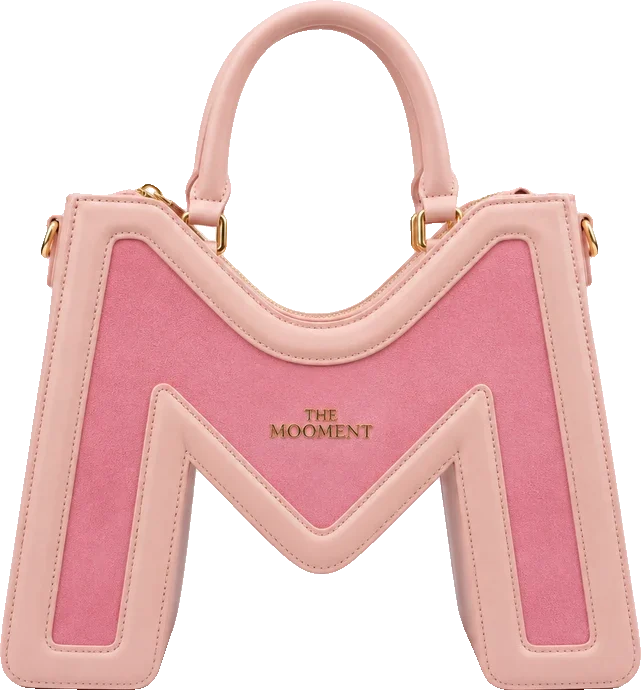
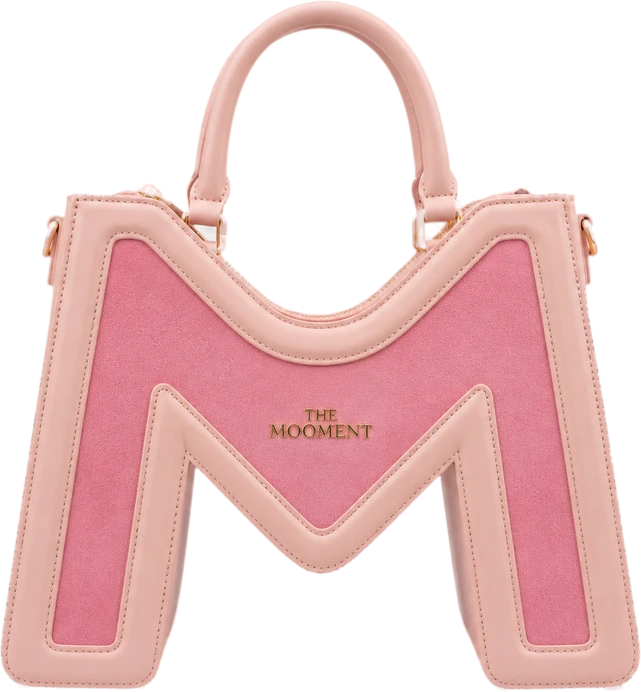
Round 7: matted+defringed cutouts, lit vitrine for the two Dual Essence bags, quick-look

diff --git a/app.js b/app.js
@@ -6,13 +6,13 @@ const stage=$('#stage'),track=$('#track'),hooks=$('#hooks'),RM=matchMedia('(pref
 P.forEach(p=>{const i=new Image();i.decoding='async';i.src=p.cut;i.decode&&i.decode().catch(()=>{})});
 // seeded random so the closet looks the same each visit
 let seed=7;const rnd=()=>(seed=(seed*16807)%2147483647)/2147483647;
-let mode='clothes',items=[],H=[],pos=0,vel=0,target=0,railA=0,prevVel=0,drag=null,S=260,railY=120,shown=-1;
+let mx=0,mode='clothes',items=[],H=[],pos=0,vel=0,target=0,railA=0,prevVel=0,drag=null,S=260,railY=120,shown=-1;
 function build(){items=sets[mode];document.body.classList.toggle('bags',mode=='bags');seed=7;
  track.innerHTML=items.map((p,i)=>mode=='bags'
-  ?`<div class="item bag"><img src="${p.cut}" alt="${p.name}" draggable="false" decoding="async"><div class="ped"></div></div>`
+  ?`<div class="item bag"><div class="niche"><i class="glow"></i><i class="dl"></i></div><div class="shelf"></div><i class="fs"></i><img class="rf" src="${p.cut}" alt="" aria-hidden="true" draggable="false"><img class="bg" src="${p.cut}" alt="${p.name}" draggable="false" decoding="async"><span class="plq">${String(i+1).padStart(2,'0')}</span></div>`
   :`<div class="item"><div class="cloth"><img src="${p.cut}" alt="${p.name}" draggable="false" decoding="async"><div class="dim" style="-webkit-mask-image:url('${p.cut}');mask-image:url('${p.cut}')"></div></div></div>`).join('');
  hooks.innerHTML=mode=='bags'?'':items.map(()=>'<div class="hk"></div>').join('');
- H=[...track.children].map((el,i)=>({el,hk:hooks.children[i],cloth:el.querySelector('.cloth'),dim:el.querySelector('.dim'),
+ H=[...track.children].map((el,i)=>({el,img:el.querySelector('.bg'),rf:el.querySelector('.rf'),dl:el.querySelector('.dl'),fs:el.querySelector('.fs'),ly:0,lv:0,tz:0,tv:0,hk:hooks.children[i],cloth:el.querySelector('.cloth'),dim:el.querySelector('.dim'),
   rest:(rnd()-.5)*0.09,/* ±2.6° */ th:0,om:0,w0:Math.sqrt(26)*(.86+rnd()*.28),c:2.2+rnd()*.9,depth:.93+rnd()*.05,jit:(rnd()-.5)*12,z:-1,vis:null}));
  H.forEach(h=>h.th=h.rest);pos=target=0;vel=0;shown=-1;layout();info()}
 function layout(){const vw=innerWidth,top=stage.getBoundingClientRect().top;
@@ -20,8 +20,10 @@ function layout(){const vw=innerWidth,top=stage.getBoundingClientRect().top;
  railY=Math.round(hb+(vw<900?30:36));stage.style.setProperty('--railY',(railY-top)+'px');
  const desk=vw>=900;S=desk?Math.min(vw*.25,380):vw*.64;
  H.forEach((h,i)=>{const p=items[i],e=h.el;
-  if(mode=='bags'){S=desk?Math.min(vw*.3,420):vw*.8;const w=Math.min(desk?340:vw*.66,(it-railY-120)/p.ar),hh=w*p.ar;
-   Object.assign(e.style,{width:w+'px',height:hh+'px',marginLeft:-w/2+'px',top:(it-top-70-hh)+'px'});h.px=w/2;h.py=hh;e.style.transformOrigin='50% 100%';return}
+  if(mode=='bags'){const nw=desk?Math.min(vw*.3,420):vw*.74,nh=Math.max(300,it-hb-30);S=nw+(desk?36:18);
+   const sy=nh*.8,bw=Math.min(nw*.78,sy*.66/p.ar),bh=bw*p.ar;
+   Object.assign(e.style,{width:nw+'px',height:nh+'px',marginLeft:-nw/2+'px',top:(hb+16-top)+'px',transformOrigin:'50% 50%'});
+   e.style.setProperty('--sy',sy+'px');e.style.setProperty('--bw',bw+'px');e.style.setProperty('--bh',bh+'px');h.px=nw/2;h.py=sy;return}
   const R=desk?6:5,[nx,ny]=p.hook,w0=Math.min(desk?Math.min(vw*.3,440):vw*.8,(it-railY-24)/(p.ar*(1-ny)+.085)),w=w0,hh=w*p.ar,px=nx*w,py=ny*hh,Ls=w*.075;
   const neck=railY+R+Ls,imgTop=neck-py,oy=railY-R-imgTop;// pivot = top of the rod, in item coords
   Object.assign(e.style,{width:w+'px',height:hh+'px',marginLeft:-px+'px',top:(imgTop-top)+'px',transformOrigin:`${px}px ${oy}px`});
@@ -54,13 +56,22 @@ function tick(t){const dt=Math.min(.032,(t-last)/1000)||.016;last=t;const N=item
    if(i>0&&H[i-1].vis)acc+=3.5*(H[i-1].th-h.th);if(i<N-1&&H[i+1].vis)acc+=3.5*(H[i+1].th-h.th);// neighbours nudge
    h.om+=acc*dt;h.th+=h.om*dt;if(h.th>.19){h.th=.19;h.om*=-.3}if(h.th<-.19){h.th=-.19;h.om*=-.3}}
   const f=Math.min(ad,1),s=hang?(1-f*(1-h.depth)):1-f*.1,x=d*S+(hang?h.jit*f:0);
-  h.el.style.transform=hang?`translate3d(${x.toFixed(1)}px,0,0) rotate(${(h.th*57.3).toFixed(2)}deg) scale(${s.toFixed(3)})`
-   :`translate3d(${x.toFixed(1)}px,0,0) scale(${s.toFixed(3)}) rotateY(${Math.max(-18,Math.min(18,-vel*6)).toFixed(1)}deg)`;
-  if(hang){h.hk.style.transform=h.el.style.transform;h.hk.style.opacity=(1-Math.min(ad,1.6)*.3).toFixed(2);h.cloth.style.transform=`skewX(${Math.max(-3,Math.min(3,h.om*1.6)).toFixed(2)}deg)`;h.dim.style.opacity=(Math.min(ad,1.6)*.38).toFixed(2)}
-  else h.el.style.opacity=(1-Math.min(ad,1.4)*.45).toFixed(2);
+  if(!hang){// vitrine: lift while gliding, land with a small bounce + tilt, slow 3D turn when focused
+   const lt=-Math.min(1,Math.abs(vel))*16;h.lv+=(-(h.ly-lt)*95-7.5*h.lv)*dt;h.ly+=h.lv*dt;
+   const tt=Math.max(-7,Math.min(7,-vel*5));h.tv+=(-(h.tz-tt)*80-6.5*h.tv)*dt;h.tz+=h.tv*dt;
+   const ry=(RM?0:Math.sin(t/1000*.55+i)*5)*(1-f)+d*-16+mx*6*(1-f)-vel*4;
+   h.el.style.transform=`translate3d(${x.toFixed(1)}px,0,0) scale(${(1-f*.12).toFixed(3)})`;
+   h.el.style.filter=f>.02?`blur(${(f*3.2).toFixed(1)}px) brightness(${(1-f*.4).toFixed(2)})`:'none';
+   const bt=`translateY(${h.ly.toFixed(1)}px) rotate(${h.tz.toFixed(2)}deg) rotateY(${ry.toFixed(2)}deg)`;
+   if(!h.ql)h.img.style.transform=bt;h.rf.style.transform=`translateY(${(-h.ly).toFixed(1)}px) scaleY(-1) rotate(${(-h.tz).toFixed(2)}deg) rotateY(${ry.toFixed(2)}deg)`;
+   h.dl.style.transform=`translateX(${(-ry*2.2).toFixed(1)}px)`;h.fs.style.transform=`scale(${(1+h.ly/60).toFixed(3)})`;h.fs.style.opacity=(1+h.ly/40).toFixed(2);
+   const z=20-Math.round(ad*4);if(z!==h.z){h.el.style.zIndex=z;h.z=z}continue}
+  h.el.style.transform=`translate3d(${x.toFixed(1)}px,0,0) rotate(${(h.th*57.3).toFixed(2)}deg) scale(${s.toFixed(3)})`;
+  h.hk.style.transform=h.el.style.transform;h.hk.style.opacity=(1-Math.min(ad,1.6)*.3).toFixed(2);h.cloth.style.transform=`skewX(${Math.max(-3,Math.min(3,h.om*1.6)).toFixed(2)}deg)`;h.dim.style.opacity=(Math.min(ad,1.6)*.38).toFixed(2);
   const z=20-Math.round(ad*4);if(z!==h.z){h.el.style.zIndex=z;h.z=z}}
  info();requestAnimationFrame(tick)}
 requestAnimationFrame(tick);
+addEventListener('pointermove',e=>{if(e.pointerType=='mouse')mx=e.clientX/innerWidth*2-1});
 // ---- input: rail follows the finger 1:1 ----
 let sx,sp,lx,lt,moved,vs=[];
 stage.addEventListener('pointerdown',e=>{if(e.target.closest('.nav'))return;drag=1;sx=lx=e.clientX;sp=pos;lt=performance.now();moved=0;vs=[];stage.setPointerCapture(e.pointerId)});
@@ -69,7 +80,7 @@ stage.addEventListener('pointermove',e=>{if(!drag)return;const now=performance.n
  const dtm=Math.max(.004,(now-lt)/1000);vs.push([now,(np-pos)/dtm]);vs=vs.filter(v=>now-v[0]<90);vel=vs.reduce((s,v)=>s+v[1],0)/vs.length;pos=np;lx=e.clientX;lt=now});
 const up=e=>{if(!drag)return;drag=null;if(performance.now()-lt>80)vel=0;
  if(moved<6){const el=e.target.closest&&document.elementsFromPoint(e.clientX,e.clientY).find(x=>x.classList&&x.classList.contains('item'));
-  const j=H.findIndex(h=>h.el===el);if(j>-1&&j!=idx())go(j);else if(j==idx())openPDP();return}
+  const j=H.findIndex(h=>h.el===el);if(j>-1&&j!=idx())go(j);else if(j==idx())mode=='bags'?quick(H[j]):openPDP();return}
  // momentum with friction, then snap to nearest hanger
  const proj=pos+vel*.28;target=Math.max(0,Math.min(items.length-1,Math.round(proj)));haptic()};
 stage.addEventListener('pointerup',up);stage.addEventListener('pointercancel',up);
@@ -122,3 +133,10 @@ $('#aForm').onsubmit=e=>{e.preventDefault();const v=$('#aEmail').value.trim();if
 if(matchMedia('(hover:hover) and (pointer:fine)').matches){const c=$('#cur');document.body.classList.add('fine');
  addEventListener('pointermove',e=>{c.style.transform=`translate3d(${e.clientX}px,${e.clientY}px,0)`;const t=e.target.closest&&e.target.closest('button,a,input,textarea,summary,.sheet');c.classList.toggle('off',!!t||!e.target.closest('#stage'))});
  stage.addEventListener('pointerdown',()=>c.classList.add('down'));addEventListener('pointerup',()=>c.classList.remove('down'))}
+
+// quick-look: the bag lifts out of its niche toward you, then the product sheet rises
+function quick(h){if(RM||h.ql)return openPDP();h.ql=1;const r=h.img.getBoundingClientRect(),c=h.img.cloneNode();c.className='ql';c.style.transform='';
+ Object.assign(c.style,{left:r.left+'px',top:r.top+'px',width:r.width+'px',height:r.height+'px'});document.body.appendChild(c);h.img.style.visibility='hidden';
+ const tw=Math.min(innerWidth*.62,340),k=tw/r.width,tx=innerWidth/2-(r.left+r.width/2),ty=innerHeight*.26-(r.top+r.height/2);
+ c.getBoundingClientRect();c.style.transform=`translate(${tx}px,${ty}px) scale(${k})`;
+ setTimeout(()=>{openPDP();c.style.opacity=0;setTimeout(()=>{c.remove();h.img.style.visibility='';h.ql=0},450)},560)}

diff --git a/style.css b/style.css
@@ -42,8 +42,6 @@ body.pre .world{transform:scale(1.16);filter:brightness(.35)}body.fast .world{tr
 .item .cloth{position:absolute;inset:0;will-change:transform}
 .item .cloth img{filter:drop-shadow(0 18px 20px rgba(0,0,0,.7))}
 .item .dim{position:absolute;inset:0;background:#000;opacity:0;will-change:opacity;-webkit-mask-size:100% 100%;mask-size:100% 100%;pointer-events:none}
-.item.bag img{filter:drop-shadow(0 24px 18px rgba(0,0,0,.8))}
-.item.bag .ped{position:absolute;left:-8%;right:-8%;top:100%;height:46px;background:linear-gradient(#1c1a18,#0b0a09);border-top:1px solid rgba(236,232,225,.14)}
 .nav{position:absolute;z-index:9;top:50%;transform:translateY(-50%);width:44px;height:44px;font:300 18px/1 var(--sans);color:var(--mute);opacity:.0;transition:opacity .3s}
 .nav.prev{left:8px}.nav.next{right:8px}
 @media (hover:hover){.nav{opacity:.7}.nav:hover{color:var(--fg)}}
@@ -125,3 +123,22 @@ summary::after{content:"+";float:right}details[open] summary::after{content:"–
 #cart .lbl{margin-top:22px}
 .intro::before{content:"";position:absolute;inset:0;background:radial-gradient(ellipse 28% 70% at 50% 50%,rgba(255,214,160,.30),rgba(255,190,120,.08) 55%,transparent 75%);opacity:0;transition:opacity .7s ease .35s}
 .intro.go::before{opacity:1}
+
+/* ---- vitrine: two lit lacquer niches ---- */
+.bags .room{background:#0b0a09;filter:none;transform:none;background-image:linear-gradient(90deg,rgba(255,255,255,.015) 1px,transparent 1px),radial-gradient(ellipse 80% 60% at 50% 40%,#1b1815,#070605 80%);background-size:7px 100%,cover}
+.bags .spot{background:radial-gradient(ellipse 40% 30% at 50% 8%,rgba(255,226,186,.07),transparent 70%)}
+.item.bag{perspective:900px;-webkit-perspective:900px;will-change:transform,filter}
+.item.bag .niche{position:absolute;left:0;right:0;top:0;height:var(--sy);border-radius:3px 3px 0 0;overflow:hidden;
+ background:linear-gradient(180deg,#17130f,#0f0c0a 55%,#1a1510);box-shadow:inset 0 0 0 1px rgba(255,236,210,.05),inset 0 26px 40px rgba(0,0,0,.75),inset 18px 0 30px rgba(0,0,0,.6),inset -18px 0 30px rgba(0,0,0,.6)}
+.item.bag .niche::before{content:"";position:absolute;left:50%;top:0;width:34%;height:4px;margin-left:-17%;border-radius:0 0 3px 3px;background:linear-gradient(90deg,transparent,#fff3dd,transparent);opacity:.85;box-shadow:0 0 18px 4px rgba(255,214,160,.35)}
+.item.bag .dl{position:absolute;left:8%;right:8%;top:0;bottom:0;background:radial-gradient(ellipse 40% 75% at 50% -8%,rgba(255,222,176,.34),rgba(255,206,150,.10) 45%,transparent 72%);mix-blend-mode:screen}
+.item.bag .glow{position:absolute;left:0;right:0;bottom:0;height:30%;background:radial-gradient(ellipse 50% 70% at 50% 100%,rgba(255,214,160,.16),transparent 70%)}
+.item.bag .shelf{position:absolute;left:-4px;right:-4px;top:var(--sy);height:14px;background:linear-gradient(180deg,#3b322a,#1a1612 40%,#0b0908);border-top:1px solid rgba(255,232,200,.28);box-shadow:0 10px 18px rgba(0,0,0,.7)}
+.item.bag .shelf::after{content:"";position:absolute;left:0;right:0;top:14px;height:calc(100% + 90px);background:linear-gradient(180deg,#0d0b09,#060504)}
+.item.bag img{position:absolute;left:50%;width:var(--bw);height:var(--bh);margin-left:calc(var(--bw) / -2);pointer-events:auto}
+.item.bag .bg{top:calc(var(--sy) - var(--bh));transform-origin:50% 100%;filter:drop-shadow(0 6px 6px rgba(0,0,0,.55))}
+.item.bag .rf{top:calc(var(--sy) + 1px);transform-origin:50% 0;opacity:.16;pointer-events:none;-webkit-mask-image:linear-gradient(180deg,rgba(0,0,0,.9),transparent 34%);mask-image:linear-gradient(180deg,rgba(0,0,0,.9),transparent 34%)}
+.item.bag .fs{position:absolute;left:50%;top:calc(var(--sy) - 9px);width:calc(var(--bw) * 1.05);height:18px;margin-left:calc(var(--bw) * -.525);border-radius:50%;background:radial-gradient(closest-side,rgba(0,0,0,.85),transparent);z-index:1}
+.item.bag .bg{z-index:2}
+.item.bag .plq{position:absolute;left:50%;top:calc(var(--sy) + 26px);transform:translateX(-50%);font:500 9px/1 var(--sans);letter-spacing:.3em;color:rgba(236,232,225,.38)}
+.ql{position:fixed;z-index:40;pointer-events:none;transform-origin:50% 50%;transition:transform .56s cubic-bezier(.2,.8,.2,1),opacity .45s;filter:drop-shadow(0 30px 30px rgba(0,0,0,.7))}

diff --git a/products.js b/products.js
@@ -20,13 +20,13 @@ window.PRODUCTS=[
     "ok": true
    }
   ],
-  "cut": "cut/untitled-jul29_13-58-51.webp?v=6",
+  "cut": "cut/untitled-jul29_13-58-51.webp?v=9",
   "hook": [
    0.499,
    0,
    0.337
   ],
-  "ar": 1.076
+  "ar": 1.08
  },
  {
   "id": "untitled-jun18_19-55",
@@ -72,12 +72,12 @@ window.PRODUCTS=[
     "ok": true
    }
   ],
-  "cut": "cut/untitled-jun18_19-55.webp?v=8",
+  "cut": "cut/untitled-jun18_19-55.webp?v=9",
   "hook": [
-   0.5,
-   0.0922
+   0.5019,
+   0.0056
   ],
-  "ar": 1.259,
+  "ar": 1.148,
   "ai": 1
  },
  {
@@ -129,12 +129,12 @@ window.PRODUCTS=[
     "ok": true
    }
   ],
-  "cut": "cut/red-gem-theory.webp?v=8",
+  "cut": "cut/red-gem-theory.webp?v=9",
   "hook": [
-   0.5022,
-   0.0944
+   0.5054,
+   0.01
   ],
-  "ar": 1.322,
+  "ar": 1.205,
   "ai": 1
  },
  {
@@ -186,12 +186,12 @@ window.PRODUCTS=[
     "ok": true
    }
   ],
-  "cut": "cut/yellow-gem-theory.webp?v=8",
+  "cut": "cut/yellow-gem-theory.webp?v=9",
   "hook": [
-   0.4985,
-   0.0967
+   0.5007,
+   0.0044
   ],
-  "ar": 1.337,
+  "ar": 1.211,
   "ai": 1
  },
  {
@@ -215,7 +215,7 @@ window.PRODUCTS=[
     "ok": false
    }
   ],
-  "cut": "cut/dual-essence.webp?v=6",
+  "cut": "cut/dual-essence.webp?v=9",
   "hook": [
    0.499,
    0,
@@ -266,12 +266,12 @@ window.PRODUCTS=[
     "ok": true
    }
   ],
-  "cut": "cut/the-essential-mooment-sets-gray.webp?v=8",
+  "cut": "cut/the-essential-mooment-sets-gray.webp?v=9",
   "hook": [
-   0.4956,
-   0.0844
+   0.5025,
+   0.01
   ],
-  "ar": 1.616,
+  "ar": 1.498,
   "ai": 1
  },
  {
@@ -319,12 +319,12 @@ window.PRODUCTS=[
     "ok": false
    }
   ],
-  "cut": "cut/the-essential-mooment-sets-blue.webp?v=8",
+  "cut": "cut/the-essential-mooment-sets-blue.webp?v=9",
   "hook": [
-   0.4991,
-   0.0856
+   0.5016,
+   0.0067
   ],
-  "ar": 1.61,
+  "ar": 1.478,
   "ai": 1
  },
  {
@@ -372,12 +372,12 @@ window.PRODUCTS=[
     "ok": false
    }
   ],
-  "cut": "cut/gem-theory-black.webp?v=8",
+  "cut": "cut/gem-theory-black.webp?v=9",
   "hook": [
-   0.5035,
-   0.0911
+   0.5071,
+   0.0067
   ],
-  "ar": 1.273,
+  "ar": 1.163,
   "ai": 1
  },
  {
@@ -424,10 +424,10 @@ window.PRODUCTS=[
     "ok": false
    }
   ],
-  "cut": "cut/proof-of-pressure-tee-ivory.webp?v=8",
+  "cut": "cut/proof-of-pressure-tee-ivory.webp?v=9",
   "hook": [
    0.5,
-   0.0922
+   0.0933
   ],
   "ar": 1.259,
   "ai": 1
@@ -477,12 +477,12 @@ window.PRODUCTS=[
     "ok": false
    }
   ],
-  "cut": "cut/gem-theory-hoodie-purple.webp?v=8",
+  "cut": "cut/gem-theory-hoodie-purple.webp?v=9",
   "hook": [
-   0.5086,
-   0.0911
+   0.5072,
+   0.0056
   ],
-  "ar": 1.295,
+  "ar": 1.178,
   "ai": 1
  },
  {
@@ -524,12 +524,12 @@ window.PRODUCTS=[
     "ok": false
    }
   ],
-  "cut": "cut/gem-theory-hoodie-blue.webp?v=8",
+  "cut": "cut/gem-theory-hoodie-blue.webp?v=9",
   "hook": [
-   0.4993,
-   0.0944
+   0.5013,
+   0.0056
   ],
-  "ar": 1.32,
+  "ar": 1.2,
   "ai": 1
  },
  {
@@ -588,12 +588,12 @@ window.PRODUCTS=[
     "ok": true
    }
   ],
-  "cut": "cut/blue-wavy-sweater.webp?v=8",
+  "cut": "cut/blue-wavy-sweater.webp?v=9",
   "hook": [
-   0.5007,
-   0.09
+   0.4957,
+   0.0106
   ],
-  "ar": 1.322,
+  "ar": 1.209,
   "ai": 1
  },
  {
@@ -652,12 +652,12 @@ window.PRODUCTS=[
     "ok": false
    }
   ],
-  "cut": "cut/pink-wavy-sweater.webp?v=8",
+  "cut": "cut/pink-wavy-sweater.webp?v=9",
   "hook": [
-   0.4874,
-   0.0956
+   0.4844,
+   0.0058
   ],
-  "ar": 1.286,
+  "ar": 1.168,
   "ai": 1
  }
 ];

diff --git a/index.html b/index.html
@@ -9,7 +9,7 @@
 <meta name="twitter:card" content="summary_large_image"><meta name="twitter:image" content="https://semavj.github.io/themooment-closet/assets/og.jpg">
 <link rel="preconnect" href="https://fonts.googleapis.com"><link rel="preconnect" href="https://fonts.gstatic.com" crossorigin>
 <link href="https://fonts.googleapis.com/css2?family=Instrument+Serif:ital@0;1&family=Inter+Tight:wght@400;500&display=swap" rel="stylesheet">
-<link rel="stylesheet" href="style.css?v=8"></head><body class="pre">
+<link rel="stylesheet" href="style.css?v=9"></head><body class="pre">
 <div id="intro" class="intro" role="dialog" aria-label="The Mooment">
 <div class="seam" aria-hidden="true"></div>
 <div class="door dl" aria-hidden="true"><i class="pnl"></i><i class="pull"></i></div><div class="door dr" aria-hidden="true"><i class="pnl"></i><i class="pull"></i></div>
@@ -42,4 +42,4 @@
 <svg width="0" height="0" style="position:absolute"><defs><filter id="hb" x="-50%" y="-50%" width="200%" height="200%"><feGaussianBlur stdDeviation=".9"/></filter>
 <linearGradient id="hg" x1="0" x2="1"><stop offset="0" stop-color="#5d5a55"/><stop offset=".45" stop-color="#e8e4dc"/><stop offset="1" stop-color="#77736c"/></linearGradient></defs></svg>
 <div id="cur" class="cur off" aria-hidden="true"><span>Drag</span></div>
-<script src="products.js?v=8"></script><script src="app.js?v=8"></script></body></html>
+<script src="products.js?v=9"></script><script src="app.js?v=9"></script></body></html>
